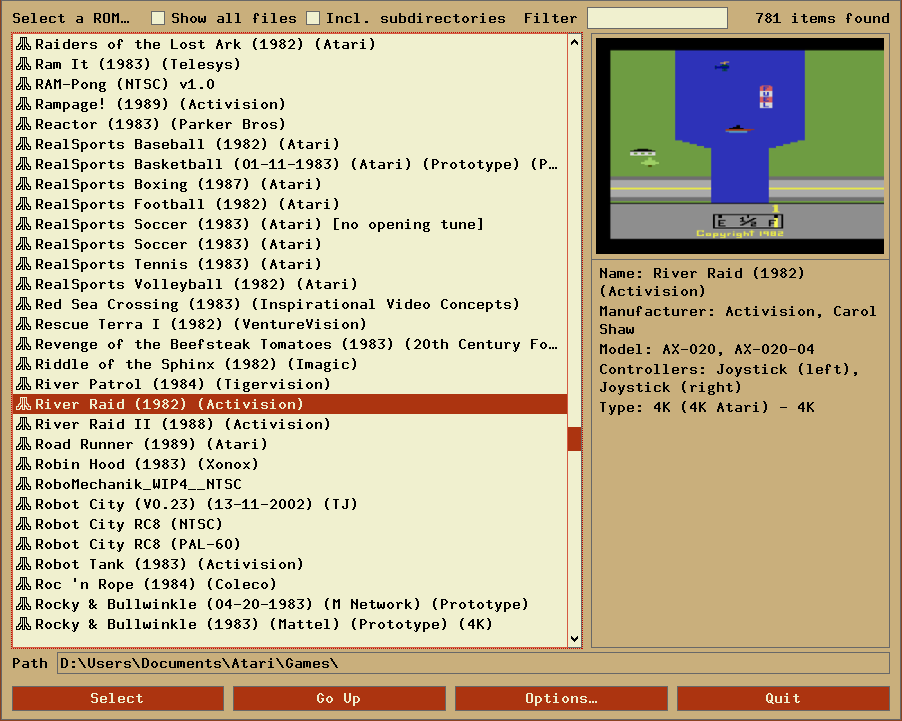
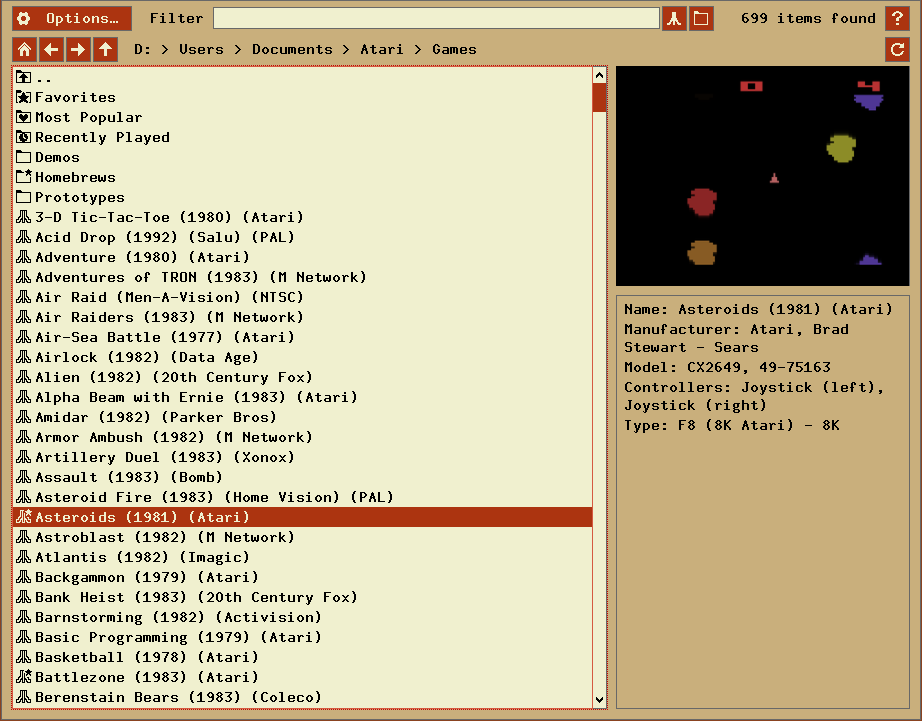
updated launcher doc

diff --git a/docs/index.html b/docs/index.html
@@ -590,7 +590,7 @@
   for more information. To exit a game and re-enter the ROM launcher, press the 'Escape'
   key.</p>
 
-  <p>Using the 'Search' textbox in the upper-right of the ROM launcher, the
+  <p>Using the 'Search' textbox in the upper row of the ROM launcher, the
   listing can be narrowed down, showing only the ROMs that match the pattern
   you enter.</p>
 
@@ -3827,7 +3827,7 @@
       <td>Enable/disable the fixed debug colors.</td>
     </tr><tr>
       <td><pre>-&lt;plr.|dev.&gt;timemachine &lt;1|0&gt;</pre></td>
-      <td>Enable/disable the Time Machine</td>
+      <td>Enable/disable the Time Machine.</td>
     </tr><tr>
       <td><pre>-&lt;plr.|dev.&gt;tm.size &lt;20 - 1000&gt;</pre></td>
       <td>Define the Time Machine buffer size.</td>
@@ -4175,6 +4175,7 @@
 
   <p>The following screenshots illustrate the event remapping process:<br><br>
   <img src="graphics/eventmapping.png">
+  &nbsp;&nbsp;
   <img src="graphics/eventmapping_remap.png">
 
   <p>Finally there is a <a name="Combo">'Combo'</a> button in the 'Emulation Events' tab, accessible
@@ -4274,25 +4275,19 @@
   <p>The following snapshots illustrate the various font sizes and rom info
   widths:</p>
 
-  <p>ROM Info Viewer width at 40%, UI sized 800x480, small launcher font:</p>
+  <p>ROM Info Viewer width at 40%, UI sized 800x480, small launcher font, bottom buttons enabled:</p>
   <img src="graphics/rominfo_1x_small.png">
 
-  <p>ROM Info Viewer width at 32%, UI sized 900x720, medium launcher font:</p>
+  <p>ROM Info Viewer width at 32%, UI sized 900x720, medium launcher font, bottom buttons disabled::</p>
   <img src="graphics/rominfo_1x_large.png">
 
-  <p>ROM Info Viewer width at 50% , UI sized 1280x900, large launcher font:</p>
+  <p>ROM Info Viewer width at 50% , UI sized 1280x900, large launcher font, bottom buttons disabled::</p>
   <img src="graphics/rominfo_2x_small.png">
 
-  <p>The dialog items at the top can be used to define the listed files:</p>
+  <p>The dialog items at the top can be used to define the listed files and to navigate your folders:</p>
 
   <ul>
     <li>
-      The 'Show all files' checkbox allows displaying files which do not
-      have a valid ROM extension.
-    </li><li>
-      If 'Incl. subdirectories' is checked, Stella will list matching files
-      from all subdirectories too.
-    </li><li>
       The 'Filter' text box can be used to narrow down the results in the
       ROM listing. When this box is empty, all files are shown. Typing
       characters here will show only those files that match that
@@ -4303,6 +4298,24 @@
       about capital or lower-case letters. You also can use '*' and '?' as
       wildcards. E.g. for '(198?)*atari' only ROMs from the 1980s made by
       Atari will be listed.
+    </li>
+    <li>
+    <img src="graphics/show_roms.png" style="vertical-align: middle; margin-top: 4px; margin-bottom: 4px">
+    <img src="graphics/show_all.png" style="vertical-align: middle; margin-top: 4px; margin-bottom: 4px; margin-right: 4px">
+      Display either files which do have a valid ROM extension or all files.
+    </li><li>
+    <img src="graphics/show_current_dir.png" style="vertical-align: middle; margin-top: 4px; margin-bottom: 4px">
+    <img src="graphics/show_sub_dirs.png" style="vertical-align: middle; margin-top: 4px; margin-bottom: 4px; margin-right: 4px">
+      Display either files from current directory only or all subdirectories too.
+    </li><li>
+    <img src="graphics/open_help.png" style="vertical-align: middle; margin-top: 4px; margin-bottom: 4px; margin-right: 4px">
+      Open this help for the launcher.
+    </li><li>
+    <img src="graphics/navigation_buttons.png" style="vertical-align: middle; margin-top: 4px; margin-bottom: 4px; margin-right: 4px">
+      Quick folder navigation buttons; the path display allows direct navigation by clicking an element.
+    </li><li>
+    <img src="graphics/reload_list.png" style="vertical-align: middle; margin-top: 4px; margin-bottom: 4px; margin-right: 4px">
+      Reload the list.
     </li>
   </ul>
   </br>
